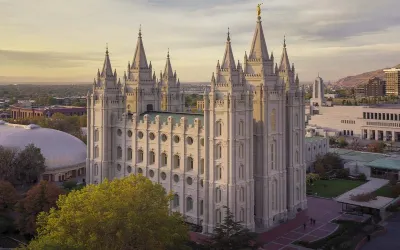
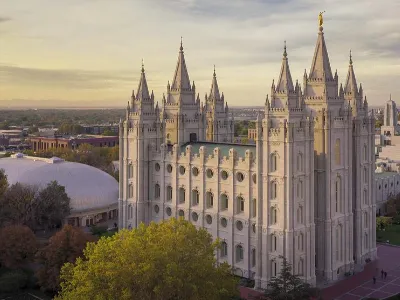
catch up week 3

diff --git a/chamber/index.html b/chamber/index.html
@@ -15,7 +15,9 @@
   <link rel="stylesheet" href="styles/larger.css">
   <meta property="og:title" content="My Hometown (Denver, CO)">
   <meta property="og:type" content="website">
-  <meta property="og:image" content="">
+  <meta property="og:image"
+    content="https://images.unsplash.com/photo-1582679755502-4525f4a4a281?crop=faces%2Cedges&amp;cs=tinysrgb&amp;fit=crop&amp;fm=jpg&amp;ixid=M3wxMjA3fDB8MXxhbGx8fHx8fHx8fHwxNjk2MTA5ODMwfA&amp;ixlib=rb-4.0.3&amp;q=60&amp;w=1200&amp;auto=format&amp;h=630&amp;mark-w=64&amp;mark-align=top%2Cleft&amp;mark-pad=50&amp;blend-mode=normal&amp;blend-alpha=10&amp;blend-w=1&amp;mark=https%3A%2F%2Fimages.unsplash.com%2Fopengraph%2Flogo.png&amp;blend=000000"
+    data-rh="true">
   <meta property="og:url" content="https://unsplash.com/photos/IWGMtPUbm8Q">
 </head>
 
@@ -35,14 +37,23 @@
       </a>
     </nav>
     <nav class="navigation">
-      <a href="https://agomezarias.github.io/wdd230/index.html">About</a>
-      <a href="https://agomezarias.github.io/wdd230/chamber.html">Events/Calendar</a>
-      <a href="https://agomezarias.github.io/wdd230/week01/chamber-site-plan.html"></a>
-      <a href="https://agomezarias.github.io/wdd230/form.html">Form</a>
+      <a href="https://agomezarias.github.io/wdd230/chamber/******">About |</a>
+      <a href="https://agomezarias.github.io/wdd230/chamber/*******">Events/Calendar |</a>
+      <a href="https://agomezarias.github.io/wdd230/chamber/********">Board Committee |</a>
+      <a href="https://agomezarias.github.io/wdd230/chamber/*********">Contact</a>
     </nav>
   </header>
-  <nav></nav>
-  <main></main>
+  <main>
+    <div class="hero">
+      <picture>
+        <source srcset="images/slc-temple-mobile.webp" media="(max-width: 400px)">
+        <img src="images/hero-colorado-buffaloes.jpg" alt="denver skyline with buffaloes" width="960" height="600">
+      </picture>
+      <div class="hero-label">
+        <p>Salt Lake Temple</p>
+      </div>
+    </div>
+  </main>
   <footer>©Alberto Gomez Arias | BYU-Idaho | WDD 230 - Fall 2023</footer>
   <script src="scripts/"></script>
 </body>

diff --git a/week03/scripts/bom.js b/week03/scripts/bom.js
@@ -1,0 +1,52 @@
+const input = document.querySelector('#favchap');
+const button = document.querySelector('button');
+const list = document.querySelector('#list');
+
+button.addEventListener('click', () => {
+    if (input.value != '') { //make sure the input is not empty
+        displayList(input.value);  //call the function that outputs the submitted 
+        chaptersArray.push(input.value); //push the input value into the chapters array
+        setChapterList(); // update the local storage to ne array
+        input.value = ''; // clear input
+        input.focus();// set the focus back to the input
+    }
+});
+
+function displayList(item) {
+
+    let li = document.createElement('li');
+    let deleteButton = document.createElement('detlete');
+
+    li.textContent = input.value;
+    deleteButton.textContent = '❌';
+
+    li.append(deleteButton);
+    list.append(li);
+
+    deleteButton.addEventListener('click', function () {
+        list.removeChild(li);
+        deleteChapter(li.textContent);
+        input.focus();
+
+    });
+}
+
+function setChapterList() {
+    localStorage.setItem('BOMFaveList', JSON.stringify(chaptersArray));
+}
+
+function getChapterList() {
+    return JSON.parse(localStorage.getItem('BOMFaveList'));
+}
+
+function deleteChapter(chapter) {
+    chapter = chapter.slice(0, chapter.length - 1);
+    chaptersArray = chaptersArray.filter(item => item !== chapter);
+    setChapterList();
+}
+
+let chaptersArray = getChapterList() || [];
+
+chaptersArray.forEach(chapter => {
+    displayList(chapter);
+});

diff --git a/styles/base.css b/styles/base.css
@@ -1,3 +1,5 @@
+@import url("https://fonts.googleapis.com/css2?family=Shantell+Sans:wght@300&family=Tilt+Prism&display=swap");
+
 :root {
     --primary-color: #f8fbff;
     --secondary-color: #8fc3cb;
@@ -67,7 +69,7 @@ ul.menu {
 }
 
 li.a {
-    color:var(--secondary-color);
+    color: var(--secondary-color);
 }
 
 h1 {
@@ -172,9 +174,9 @@ a#menu.show {
 }
 
 .navigation a:link,
-    .navigation a:visited {
-      color: var(--nav-hover-background-color);
-    }
+.navigation a:visited {
+    color: var(--nav-hover-background-color);
+}
 
 div a {
     color: var(--nav-link-color-2);
@@ -194,9 +196,44 @@ div a {
 /* Dark Mode */
 
 #mode {
-	font-size: 1.49rem;
-	cursor: pointer;
+    font-size: 1.49rem;
+    cursor: pointer;
     text-align: right;
     font-weight: 700;
     padding-right: .5rem;
+}
+
+/* Hero Image */
+
+.hero {
+    margin: 10px auto;
+    position: relative;
+    border: 1px solid rgba(0, 0, 0, .1);
+    height: 300px;
+}
+
+.hero img {
+    width: 100%;
+    height: auto;
+    /* object-fit: cover; */
+}
+
+.hero-label {
+    position: absolute;
+    top: 10px;
+    left: 10px;
+    background: radial-gradient(#fff, #4D5B97);
+    border: 1px solid rgba(0, 0, 0, .75);
+    padding: 1.5rem;
+    box-shadow: 0 0 3rem #fff;
+    opacity: 0.75;
+    /* Buenas */
+}
+
+.hero-label p {
+    margin: 0;
+    padding: .25rem;
+    font-weight: 700;
+    font-size: 2rem;
+    font-family: "Tilt Prism", serif;
 }

diff --git a/week03/styles/bom.css b/week03/styles/bom.css
@@ -1,0 +1,71 @@
+* {
+    margin: 0;
+    padding: 0;
+}
+
+body {
+    height: 100vh;
+    display: flex;
+    flex-direction: column;
+    align-items: center;
+    justify-content: center;
+    font-family: Acme, Arial, sans-serif;
+}
+
+h1 {
+    font-size: 1.5rem;
+}
+
+main {
+    margin: 1rem auto;
+    border: 1px solid rgba(0, 0, 0, 0.1);
+    padding: 1rem;
+    background-color: #ddd;
+    display: flex;
+    flex-direction: column;
+}
+
+input,
+button {
+    padding: 0.5rem;
+}
+
+button {
+    margin: 0.5rem;
+    cursor: pointer;
+}
+
+.delete {
+    width: fit-content;
+}
+
+.input {
+    display: flex;
+    gap: 1rem;
+}
+
+.list {
+    padding: 0.5rem;
+}
+
+ul {
+    margin: 1rem;
+    list-style: none;
+}
+
+li {
+    display: flex;
+    align-items: center;
+    justify-content: space-between;
+    cursor: pointer;
+}
+
+@media only screen and (min-width: 32.5em) {
+    h1 {
+        font-size: 2rem;
+    }
+
+    main {
+        width: 320px;
+    }
+}

diff --git a/week03/bom.html b/week03/bom.html
@@ -1,0 +1,27 @@
+<!DOCTYPE html>
+<html lang="en">
+
+<head>
+    <meta charset="UTF-8">
+    <meta name="viewport" content="width=device-width, initial-scale=1.0">
+    <title>Book of Mormom - Top 10</title>
+    <meta name="description" content="Favorites of the Book of Mormon">
+    <meta name="author" content="Alberto Gomez Arias">
+    <link rel="stylesheet" href="styles/bom.css">
+</head>
+
+<body>
+    <header>
+        <h1>📖 Book of Mormon - Top 10</h1>
+    </header>
+    <main>
+        <label for="favchap">Enter Book and Chapter: </label>
+        <input type="text" id="favchap" placeholder="Alma 5" value="Alma 5">
+        <button type="submit">Add Chapter</button>
+        <ul id="list"></ul>
+    </main>
+    <footer>©Alberto Gomez Arias | BYU-Idaho | WDD 230 - Fall 2023</footer>
+    <script src="scripts/bom.js"></script>
+</body>
+
+</html>

diff --git a/index.html b/index.html
@@ -37,9 +37,12 @@
   <main>
     <div class="hero">
       <picture>
-        <source srcset="images/" media="(max-width: 1000px)">
-        <img src="images/hero-large.webp" alt="salt lake temple" width="1500" height="750">
+        <source srcset="images/slc-temple-mobile.webp" media="(max-width: 400px)">
+        <img src="images/slc-temple-large.webp" alt="salt lake temple" width="960" height="600">
       </picture>
+      <div class="hero-label">
+        <p>Salt Lake Temple</p>
+      </div>
     </div>
     <div class="body-header">
       <h2>WDD 230: Web Frontend Development</h2>
